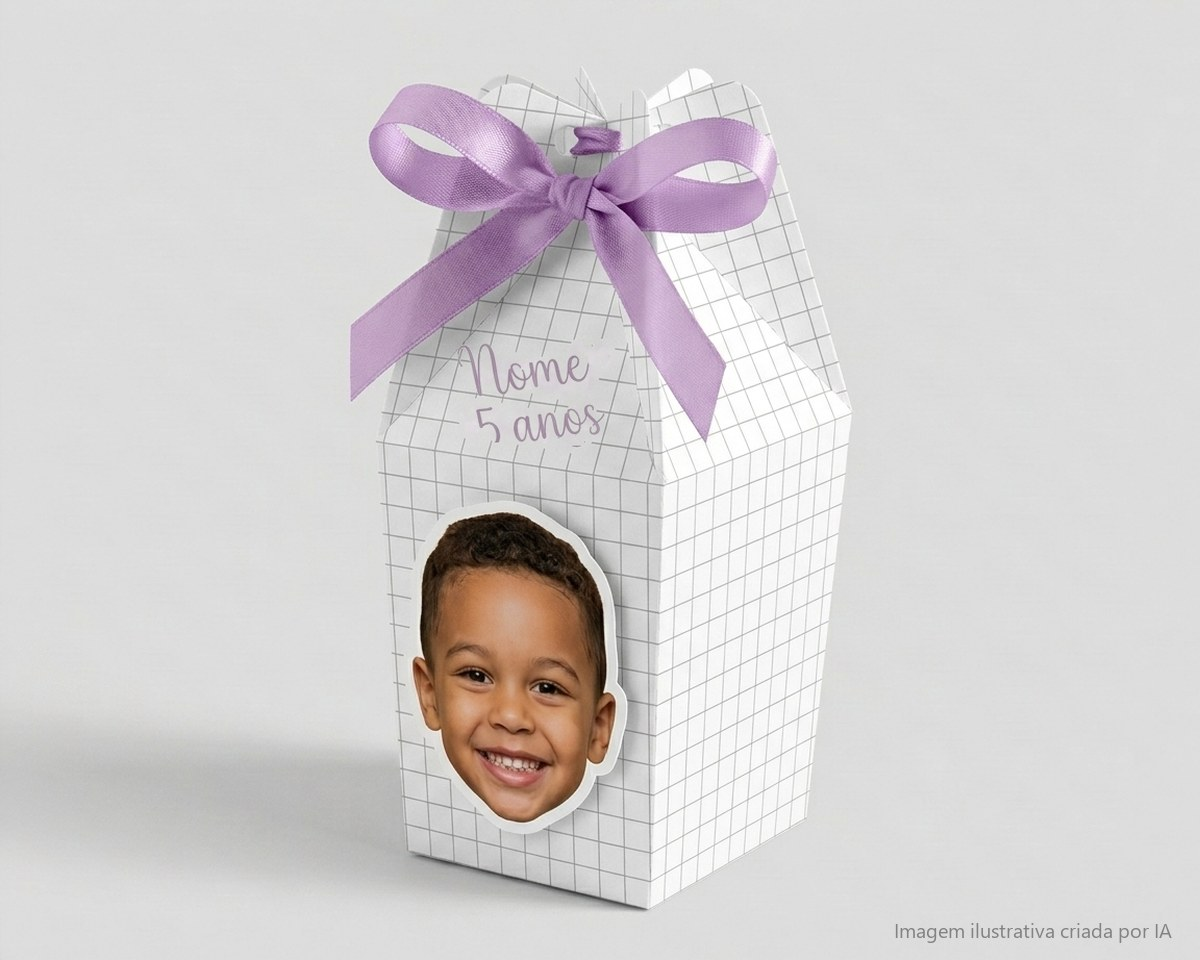
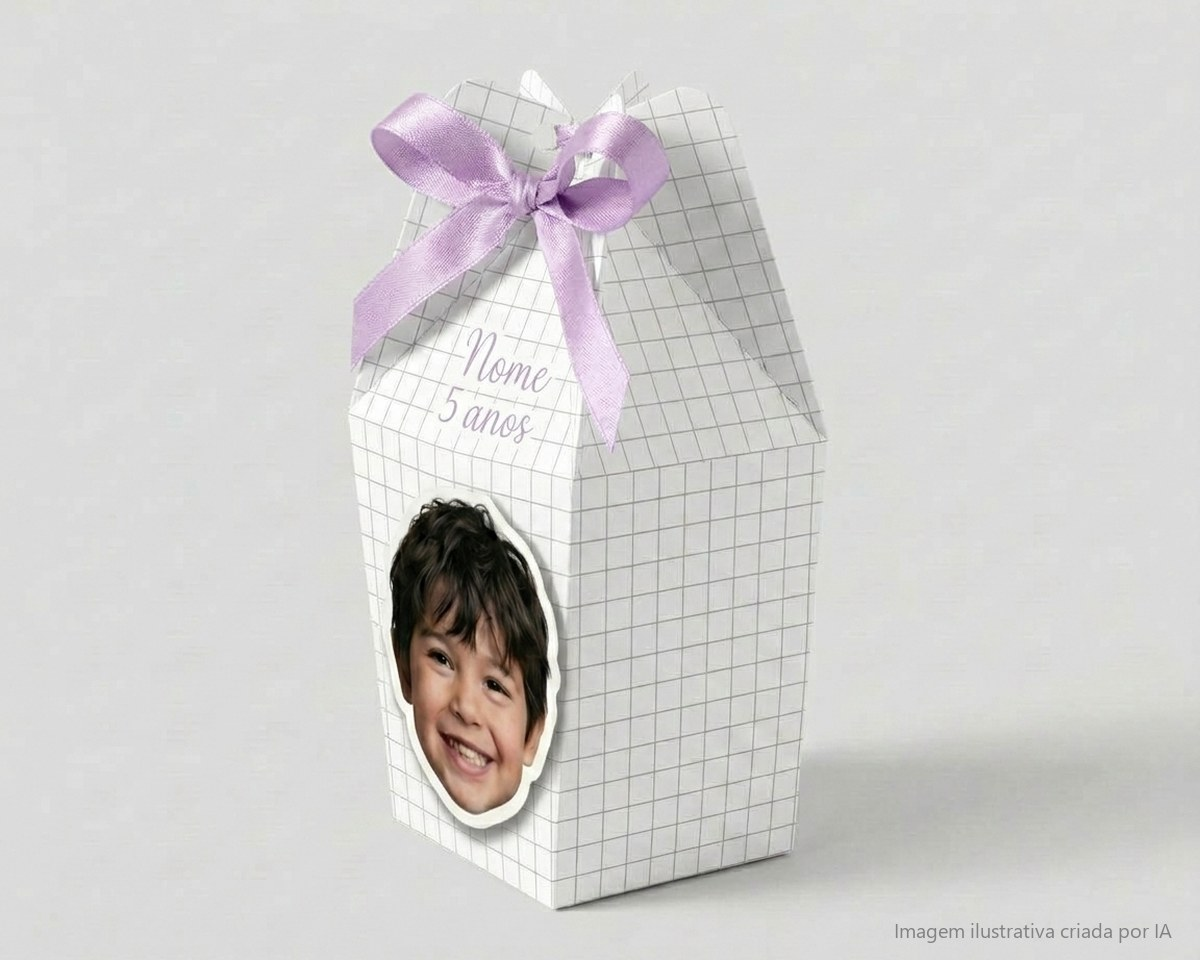
Caixa Sextavada no Quadriculado: foto nova (laco menor, mesmo lado e mesmo menino das outras caixas)

Changed region(s): [[0.0, 0.0625, 1.0, 0.9688]]

diff --git a/index.html b/index.html
@@ -1216,7 +1216,7 @@ const FAIXAS = [
    ilustração (veja fotos/LEIA-ME.txt). Enquanto o arquivo não existir, o site mostra a ilustração. */
 /* Versão das fotos: quando trocar uma foto, mude este número para os navegadores baixarem a nova na hora,
    em vez de mostrarem a antiga que ficou guardada */
-const FOTOS_VERSAO = '2026-10-18e';
+const FOTOS_VERSAO = '2026-10-18f';
 const FOTO = {
   topo:    `fotos/topo.jpg?v=${FOTOS_VERSAO}`,
   historia:`fotos/historia.jpg?v=${FOTOS_VERSAO}`,
